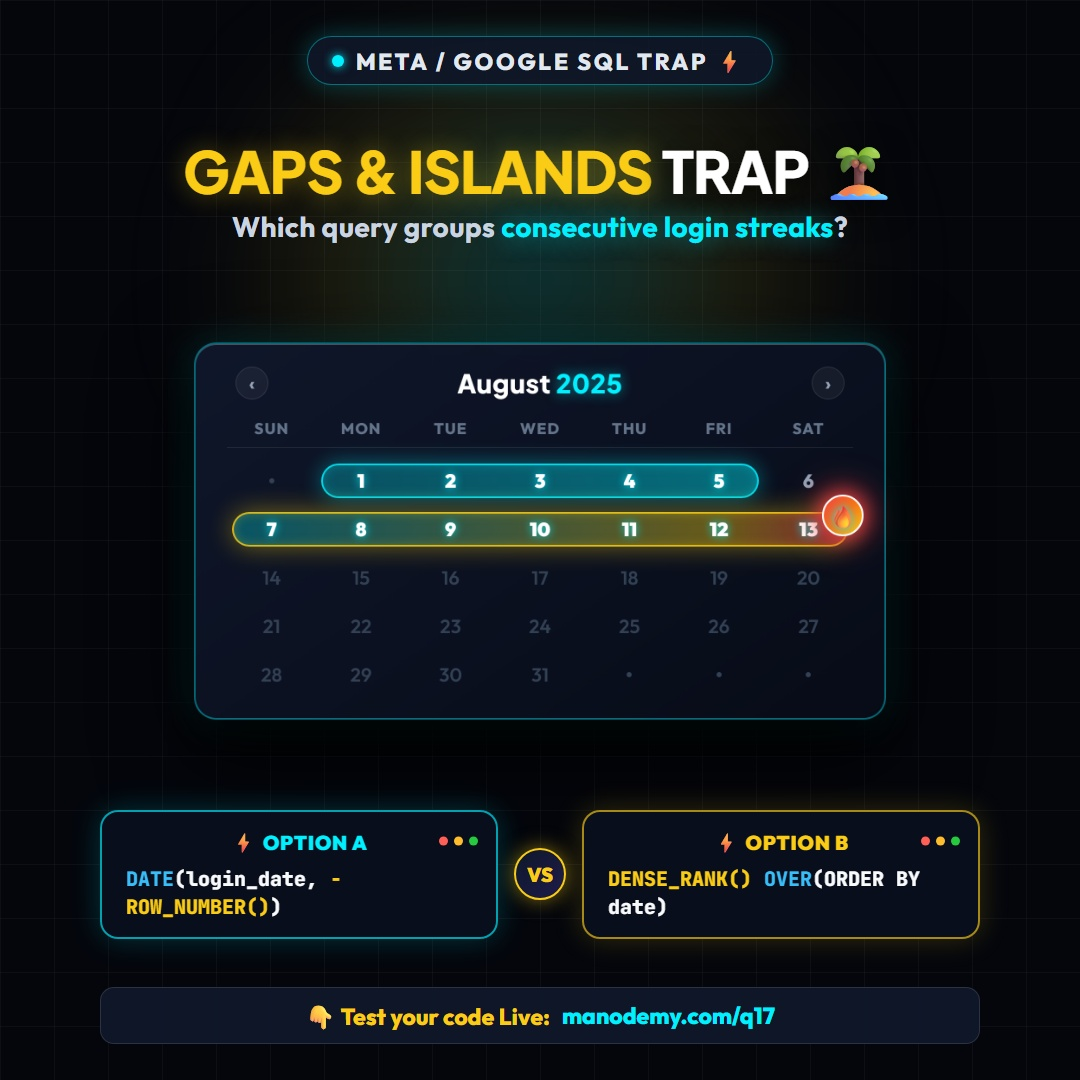
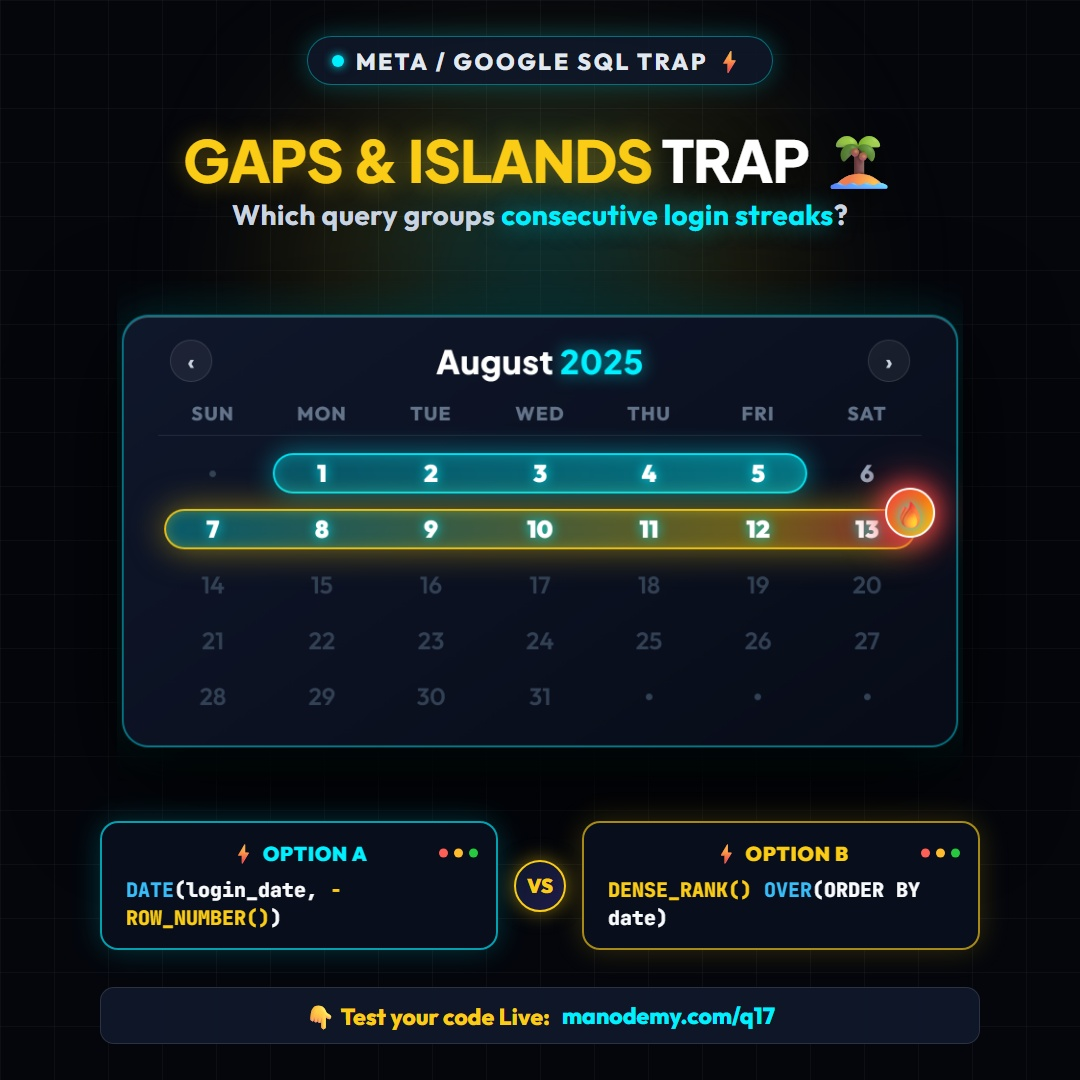
style(marketing): enlarge problem-statement calendar widget for maximum mobile visibility and prominence

diff --git a/marketing/render_dark_calendar.py b/marketing/render_dark_calendar.py
@@ -1,6 +1,6 @@
 """
-Renders an authentic, realistic full-month dark cyberpunk streak calendar widget
-representing consecutive login streaks with zero spoilers.
+Renders a large, prominent, authentic full-month dark cyberpunk streak calendar widget
+with maximum readability and visual impact.
 """
 import asyncio
 from pathlib import Path
@@ -19,7 +19,7 @@ CALENDAR_HTML = """<!DOCTYPE html>
   * { box-sizing: border-box; margin: 0; padding: 0; }
 
   body {
-    width: 860px;
+    width: 880px;
     height: 520px;
     background: transparent;
     display: flex;
@@ -29,14 +29,14 @@ CALENDAR_HTML = """<!DOCTYPE html>
     overflow: hidden;
   }
 
-  /* 3D Glassmorphic Realistic Calendar Card */
+  /* 3D Glassmorphic Large Calendar Card */
   .calendar-card {
-    width: 800px;
-    background: linear-gradient(145deg, rgba(16, 24, 44, 0.96) 0%, rgba(8, 12, 24, 0.98) 100%);
-    border: 2px solid rgba(0, 240, 255, 0.4);
-    box-shadow: 0 25px 60px rgba(0, 0, 0, 0.95), 0 0 45px rgba(0, 240, 255, 0.2), inset 0 1px 0 rgba(255, 255, 255, 0.25);
-    border-radius: 26px;
-    padding: 26px 36px;
+    width: 870px;
+    background: linear-gradient(145deg, rgba(16, 24, 44, 0.98) 0%, rgba(8, 12, 24, 0.99) 100%);
+    border: 2px solid rgba(0, 240, 255, 0.45);
+    box-shadow: 0 25px 65px rgba(0, 0, 0, 0.95), 0 0 50px rgba(0, 240, 255, 0.22), inset 0 1px 0 rgba(255, 255, 255, 0.3);
+    border-radius: 28px;
+    padding: 24px 36px 26px 36px;
     position: relative;
     backdrop-filter: blur(24px);
   }
@@ -46,35 +46,34 @@ CALENDAR_HTML = """<!DOCTYPE html>
     display: flex;
     justify-content: space-between;
     align-items: center;
-    margin-bottom: 22px;
-    padding: 0 10px;
+    margin-bottom: 20px;
+    padding: 0 12px;
   }
 
   .nav-arrow {
-    width: 38px;
-    height: 38px;
+    width: 44px;
+    height: 44px;
     border-radius: 50%;
-    background: rgba(255, 255, 255, 0.05);
-    border: 1px solid rgba(255, 255, 255, 0.1);
+    background: rgba(255, 255, 255, 0.06);
+    border: 1.5px solid rgba(255, 255, 255, 0.12);
     display: flex;
     align-items: center;
     justify-content: center;
-    color: #94a3b8;
-    font-size: 22px;
+    color: #cbd5e1;
+    font-size: 24px;
     font-weight: 700;
-    cursor: pointer;
   }
 
   .month-title {
     font-family: 'Plus Jakarta Sans', sans-serif;
-    font-size: 30px;
+    font-size: 34px;
     font-weight: 900;
     color: #ffffff;
     letter-spacing: 0.5px;
   }
   .month-title span {
     color: #00f0ff;
-    text-shadow: 0 0 15px rgba(0, 240, 255, 0.6);
+    text-shadow: 0 0 18px rgba(0, 240, 255, 0.7);
   }
 
   /* Weekdays Header */
@@ -83,14 +82,14 @@ CALENDAR_HTML = """<!DOCTYPE html>
     grid-template-columns: repeat(7, 1fr);
     text-align: center;
     margin-bottom: 14px;
-    border-bottom: 1px solid rgba(255, 255, 255, 0.08);
+    border-bottom: 1.5px solid rgba(255, 255, 255, 0.09);
     padding-bottom: 10px;
   }
   .weekday {
-    font-size: 18px;
+    font-size: 20px;
     font-weight: 800;
     color: #64748b;
-    letter-spacing: 1px;
+    letter-spacing: 1.2px;
     text-transform: uppercase;
   }
 
@@ -107,15 +106,15 @@ CALENDAR_HTML = """<!DOCTYPE html>
     align-items: center;
     text-align: center;
     position: relative;
-    height: 48px;
+    height: 50px;
   }
 
   .day-cell {
-    height: 48px;
+    height: 50px;
     display: flex;
     align-items: center;
     justify-content: center;
-    font-size: 22px;
+    font-size: 25px;
     font-weight: 800;
     color: #94a3b8;
     position: relative;
@@ -129,8 +128,8 @@ CALENDAR_HTML = """<!DOCTYPE html>
 
   .day-cell.empty-dot::after {
     content: '';
-    width: 6px;
-    height: 6px;
+    width: 7px;
+    height: 7px;
     border-radius: 50%;
     background: #334155;
   }
@@ -142,10 +141,10 @@ CALENDAR_HTML = """<!DOCTYPE html>
     right: calc(100% / 7 * 1 + 6px);
     top: 4px;
     bottom: 4px;
-    background: linear-gradient(90deg, rgba(0, 240, 255, 0.28) 0%, rgba(0, 240, 255, 0.42) 100%);
-    border: 2px solid rgba(0, 240, 255, 0.85);
+    background: linear-gradient(90deg, rgba(0, 240, 255, 0.3) 0%, rgba(0, 240, 255, 0.45) 100%);
+    border: 2px solid rgba(0, 240, 255, 0.9);
     border-radius: 999px;
-    box-shadow: 0 0 25px rgba(0, 240, 255, 0.4), inset 0 0 12px rgba(0, 240, 255, 0.25);
+    box-shadow: 0 0 28px rgba(0, 240, 255, 0.45), inset 0 0 14px rgba(0, 240, 255, 0.3);
     z-index: 1;
   }
 
@@ -156,38 +155,38 @@ CALENDAR_HTML = """<!DOCTYPE html>
     right: 6px;
     top: 4px;
     bottom: 4px;
-    background: linear-gradient(90deg, rgba(0, 240, 255, 0.3) 0%, rgba(250, 204, 21, 0.4) 80%, rgba(239, 68, 68, 0.5) 100%);
-    border: 2px solid rgba(250, 204, 21, 0.85);
+    background: linear-gradient(90deg, rgba(0, 240, 255, 0.32) 0%, rgba(250, 204, 21, 0.42) 80%, rgba(239, 68, 68, 0.55) 100%);
+    border: 2px solid rgba(250, 204, 21, 0.9);
     border-radius: 999px;
-    box-shadow: 0 0 30px rgba(250, 204, 21, 0.45), inset 0 0 12px rgba(250, 204, 21, 0.25);
+    box-shadow: 0 0 35px rgba(250, 204, 21, 0.5), inset 0 0 14px rgba(250, 204, 21, 0.3);
     z-index: 1;
   }
 
   .active-day {
     color: #ffffff !important;
     font-weight: 900 !important;
-    text-shadow: 0 0 10px rgba(0, 240, 255, 0.9);
+    text-shadow: 0 0 12px rgba(0, 240, 255, 0.95);
   }
 
   /* Flame Badge on Day 13 */
   .fire-container {
     position: absolute;
-    right: -12px;
-    top: -16px;
+    right: -14px;
+    top: -18px;
     z-index: 10;
-    filter: drop-shadow(0 0 18px rgba(239, 68, 68, 0.95));
+    filter: drop-shadow(0 0 20px rgba(239, 68, 68, 0.95));
   }
   .fire-badge {
     background: linear-gradient(135deg, #ef4444 0%, #f97316 50%, #facc15 100%);
-    width: 48px;
-    height: 48px;
+    width: 52px;
+    height: 52px;
     border-radius: 50%;
     display: flex;
     align-items: center;
     justify-content: center;
-    font-size: 26px;
-    border: 2px solid #ffffff;
-    box-shadow: 0 0 22px rgba(239, 68, 68, 0.9);
+    font-size: 28px;
+    border: 2.5px solid #ffffff;
+    box-shadow: 0 0 25px rgba(239, 68, 68, 0.95);
   }
 </style>
 </head>
@@ -214,7 +213,7 @@ CALENDAR_HTML = """<!DOCTYPE html>
 
     <!-- Full Realistic Monthly Dates Grid -->
     <div class="days-grid">
-      <!-- Week 1: Days 1 - 6 (Streak 1-5, Day 6 regular/unmarked) -->
+      <!-- Week 1: Days 1 - 6 (Streak 1-5, Day 6 regular) -->
       <div class="week-row">
         <div class="streak-pill-1"></div>
         <div class="day-cell empty-dot"></div>
@@ -285,12 +284,12 @@ CALENDAR_HTML = """<!DOCTYPE html>
 async def render():
     async with async_playwright() as p:
         browser = await p.chromium.launch(headless=True)
-        page = await browser.new_page(viewport={"width": 860, "height": 520}, device_scale_factor=2.0)
+        page = await browser.new_page(viewport={"width": 880, "height": 520}, device_scale_factor=2.0)
         await page.set_content(CALENDAR_HTML)
         await page.wait_for_timeout(300)
         OUTPUT_IMG.parent.mkdir(parents=True, exist_ok=True)
         await page.screenshot(path=str(OUTPUT_IMG), type="png", omit_background=True)
-        print(f"Rendered realistic full calendar widget: {OUTPUT_IMG}")
+        print(f"Rendered larger realistic calendar widget: {OUTPUT_IMG}")
         await browser.close()
 
 if __name__ == "__main__":

diff --git a/marketing/generate_final_problem_cover.py b/marketing/generate_final_problem_cover.py
@@ -153,13 +153,13 @@ HTML_TEMPLATE = f"""<!DOCTYPE html>
     display: flex;
     align-items: center;
     justify-content: center;
-    margin: 6px 0;
+    margin: 4px 0;
   }}
   .problem-visual-frame img {{
     width: 100%;
-    max-height: 450px;
+    max-height: 500px;
     object-fit: contain;
-    filter: drop-shadow(0 20px 40px rgba(0, 0, 0, 0.9));
+    filter: drop-shadow(0 25px 50px rgba(0, 0, 0, 0.95));
   }}
 
   /* Below Image: Dual Option Badges */
